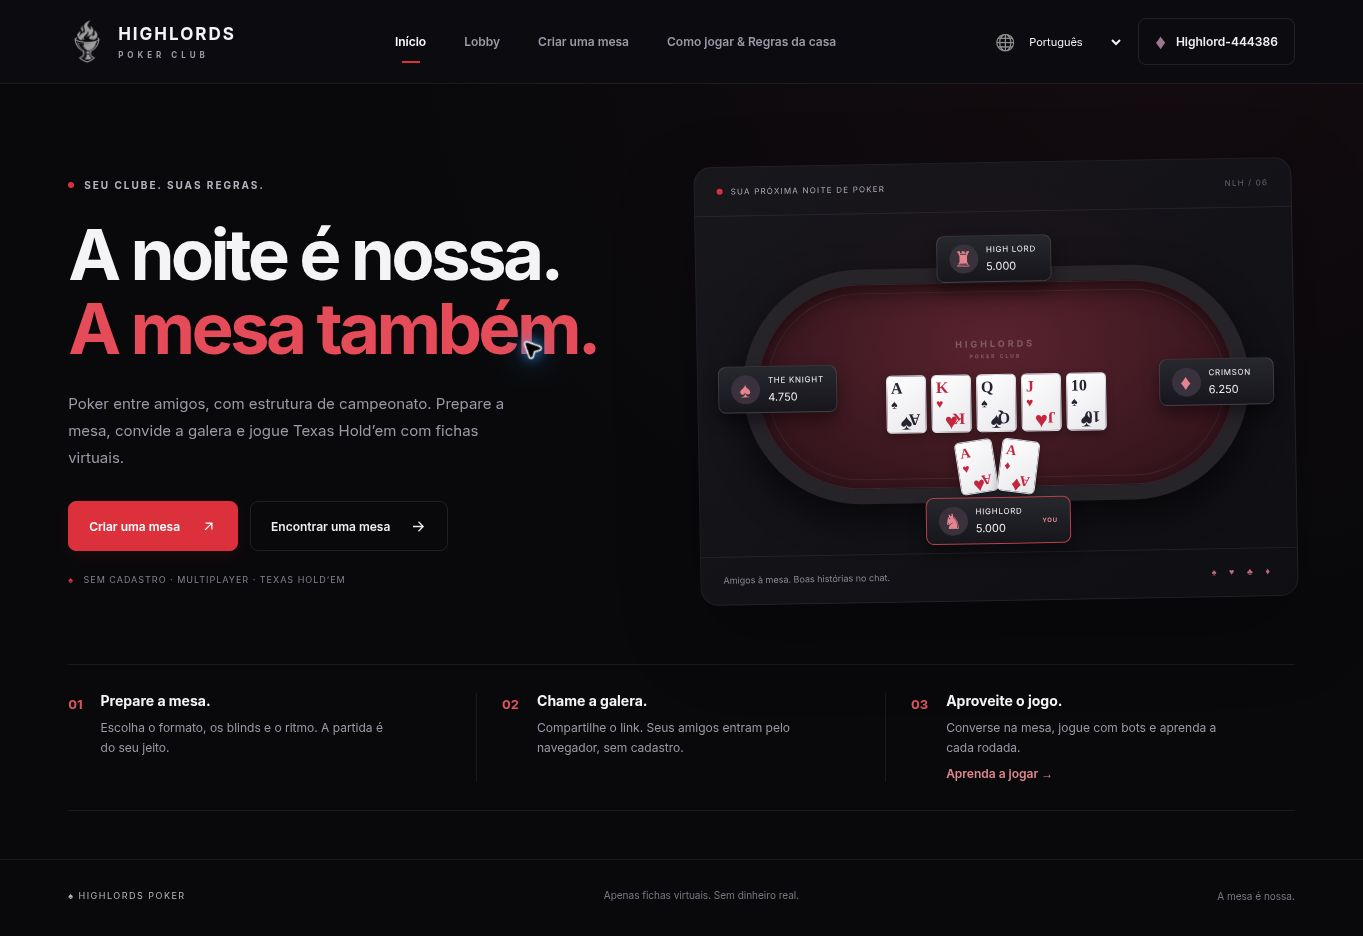
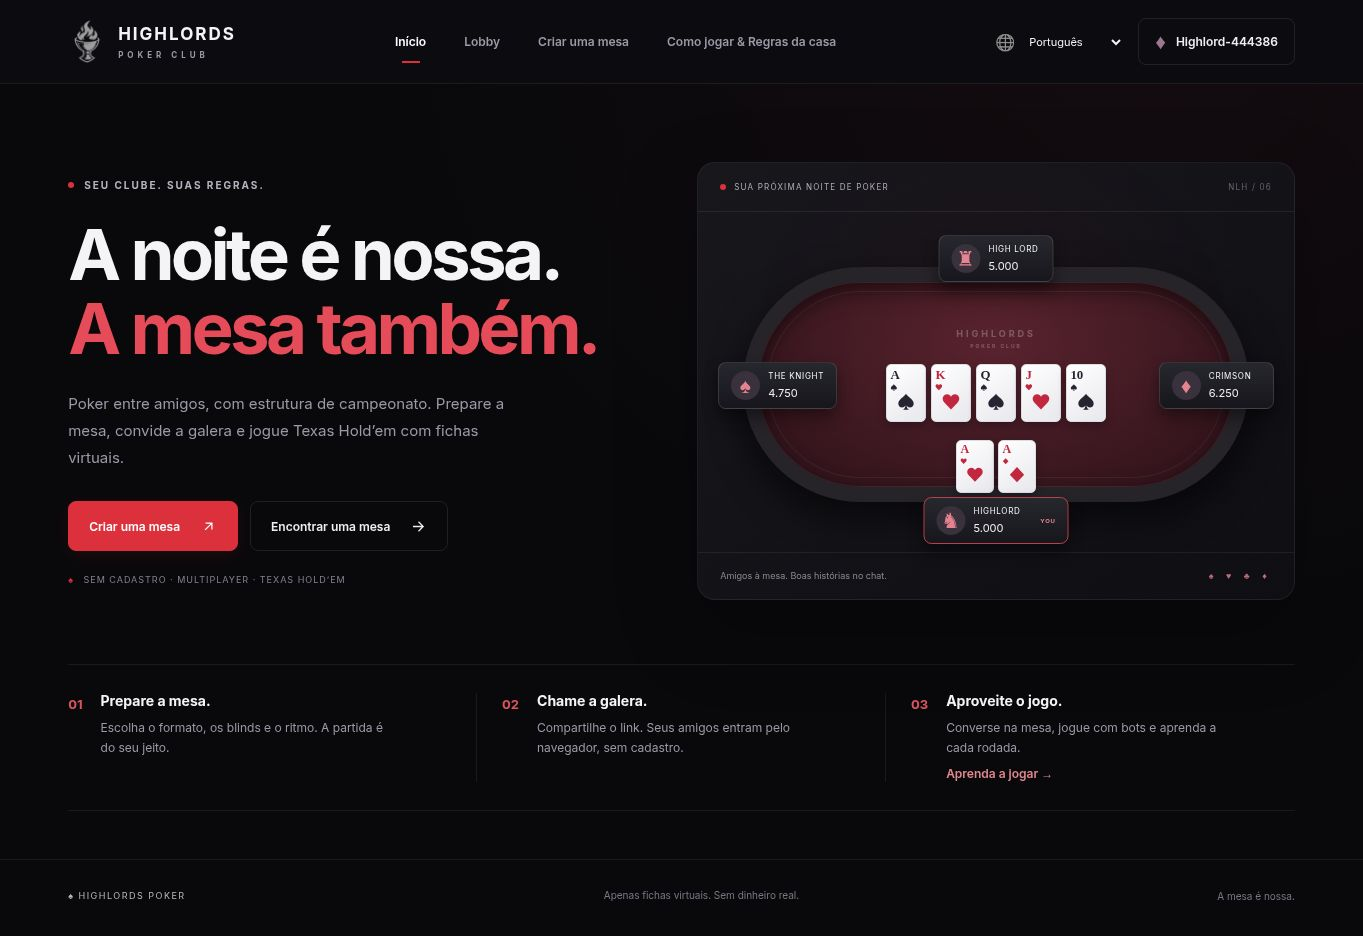
Fix tilted home artwork and replace overlapping card faces with SVG

diff --git a/apps/web/src/interface.css b/apps/web/src/interface.css
@@ -413,7 +413,7 @@ small,
     radial-gradient(ellipse at 50% 40%, #41151e30, transparent 65%),
     linear-gradient(145deg, #17171c, #0e0e13);
   box-shadow: 0 30px 80px #0004;
-  transform: rotate(-1deg);
+  transform: none;
 }
 .art-topline {
   display: flex;
@@ -449,6 +449,7 @@ small,
   align-items: center;
   justify-content: center;
   gap: 15px;
+  padding-bottom: 18px;
 }
 .mini-table:after {
   content: '';
@@ -481,14 +482,8 @@ small,
   height: 58px;
   padding: 4px;
 }
-.hero-hand .playing-card b {
-  font-size: 16px;
-}
 .hero-hand .playing-card > span {
   font-size: 22px;
-}
-.hero-hand .card-corner {
-  font-size: 10px;
 }
 .art-player {
   position: absolute;
@@ -558,19 +553,13 @@ small,
   width: 38px;
   height: 53px;
   padding: 4px;
-  transform: rotate(-8deg);
+  transform: none;
 }
 .art-own .playing-card:last-child {
-  transform: rotate(8deg);
-}
-.art-own .playing-card b {
-  font-size: 14px;
+  transform: none;
 }
 .art-own .playing-card > span {
   font-size: 20px;
-}
-.art-own .card-corner {
-  font-size: 8px;
 }
 .tiny-chip {
   width: 14px;
@@ -1701,29 +1690,18 @@ footer > span:first-child {
   display: flex;
   flex-direction: column;
 }
-.playing-card b {
-  font:
-    bold 20px/1 Georgia,
-    serif;
-}
-.playing-card b i {
-  display: block;
-  font-size: 12px;
-  font-style: normal;
-  margin-top: 2px;
-}
 .playing-card > span {
   align-self: center;
   font:
     27px/1.1 Georgia,
     serif;
 }
-.playing-card .card-corner {
+.card-face {
   position: absolute;
-  bottom: 5px;
-  right: 5px;
-  transform: rotate(180deg);
-  font-size: 12px;
+  inset: 0;
+  display: block;
+  width: 100%;
+  height: 100%;
 }
 .playing-card.red-card {
   color: #c32740;
@@ -1964,19 +1942,8 @@ footer > span:first-child {
 .hole-cards .playing-card:last-child {
   transform: rotate(8deg);
 }
-.hole-cards .playing-card b {
-  font-size: 12px;
-}
-.hole-cards .playing-card b i {
-  font-size: 8px;
-}
 .hole-cards .playing-card > span {
   font-size: 15px;
-}
-.hole-cards .card-corner {
-  font-size: 7px;
-  bottom: 2px;
-  right: 2px;
 }
 .own-hand {
   position: absolute;
@@ -2770,14 +2737,8 @@ footer > span:first-child {
   height: 58px;
   padding: 4px;
 }
-.rank-card .playing-card b {
-  font-size: 16px;
-}
 .rank-card .playing-card > span {
   font-size: 22px;
-}
-.rank-card .card-corner {
-  font-size: 9px;
 }
 .rank-card h2 {
   font-size: 17px;
@@ -2994,9 +2955,6 @@ footer > span:first-child {
     width: 34px;
     height: 50px;
   }
-  .hero-hand .playing-card b {
-    font-size: 13px;
-  }
   .hero-hand .playing-card > span {
     font-size: 20px;
   }
@@ -3146,19 +3104,8 @@ footer > span:first-child {
     height: 43px;
     padding: 3px;
   }
-  .hero-hand .playing-card b {
-    font-size: 11px;
-  }
-  .hero-hand .playing-card b i {
-    font-size: 8px;
-  }
   .hero-hand .playing-card > span {
     font-size: 17px;
-  }
-  .hero-hand .card-corner {
-    font-size: 7px;
-    bottom: 3px;
-    right: 3px;
   }
   .mini-mark {
     font-size: 7px;
@@ -3245,14 +3192,8 @@ footer > span:first-child {
     height: 65px;
     padding: 5px;
   }
-  .playing-card b {
-    font-size: 17px;
-  }
   .playing-card > span {
     font-size: 23px;
-  }
-  .playing-card .card-corner {
-    font-size: 10px;
   }
   .community {
     gap: 5px;
@@ -3428,9 +3369,6 @@ footer > span:first-child {
   .hero-hand .playing-card {
     width: 34px;
     height: 49px;
-  }
-  .hero-hand .playing-card b {
-    font-size: 13px;
   }
   .hero-hand .playing-card > span {
     font-size: 19px;
@@ -3827,19 +3765,8 @@ footer > span:first-child {
     height: 54px;
     padding: 4px;
   }
-  .community .playing-card b {
-    font-size: 15px;
-  }
-  .community .playing-card b i {
-    font-size: 9px;
-  }
   .community .playing-card > span {
     font-size: 20px;
-  }
-  .community .card-corner {
-    font-size: 9px;
-    bottom: 4px;
-    right: 4px;
   }
   .pot {
     margin-bottom: 14px;
@@ -3860,9 +3787,6 @@ footer > span:first-child {
     width: 43px;
     height: 62px;
     padding: 4px;
-  }
-  .own-hand .playing-card b {
-    font-size: 18px;
   }
   .own-hand .playing-card > span {
     font-size: 25px;
@@ -3927,17 +3851,8 @@ footer > span:first-child {
     width: 23px;
     height: 31px;
   }
-  .hole-cards .playing-card b {
-    font-size: 10px;
-  }
-  .hole-cards .playing-card b i {
-    font-size: 6px;
-  }
   .hole-cards .playing-card > span {
     font-size: 12px;
-  }
-  .hole-cards .card-corner {
-    font-size: 6px;
   }
   .dealer {
     width: 16px;

diff --git a/apps/web/src/card.tsx b/apps/web/src/card.tsx
@@ -1,4 +1,25 @@
 import React from 'react';
+
+const suits: Record<string, string> = { s: '♠', h: '♥', d: '♦', c: '♣' };
+
+function Suit({ suit }: { suit: string }) {
+  if (suit === 'c')
+    return (
+      <g>
+        <circle cx="50" cy="27" r="23" />
+        <circle cx="27" cy="59" r="23" />
+        <circle cx="73" cy="59" r="23" />
+        <path d="M44 57h12v20q0 13 14 20H30q14-7 14-20Z" />
+      </g>
+    );
+  const paths: Record<string, string> = {
+    s: 'M50 4C39 22 6 37 6 60c0 24 29 30 41 11-2 12-6 20-14 25h34c-8-5-12-13-14-25 12 19 41 13 41-11C94 37 61 22 50 4Z',
+    h: 'M50 94 13 56C-8 33 6 7 28 7c10 0 18 6 22 15C54 13 62 7 72 7c22 0 36 26 15 49Z',
+    d: 'M50 3 94 50 50 97 6 50Z',
+  };
+  return <path d={paths[suit]} />;
+}
+
 export function Card({
   card,
   hidden = false,
@@ -8,7 +29,6 @@ export function Card({
   hidden?: boolean;
   highlighted?: boolean;
 }) {
-  const suits: Record<string, string> = { s: '♠', h: '♥', d: '♦', c: '♣' };
   const rank = card?.[0] === 'T' ? '10' : card?.[0];
   return (
     <div
@@ -18,14 +38,24 @@ export function Card({
       {hidden ? (
         <span>♠</span>
       ) : card ? (
-        <>
-          <b>
+        <svg className="card-face" viewBox="0 0 100 144" aria-hidden="true" focusable="false">
+          <text
+            x="9"
+            y="34"
+            fontFamily="Georgia, serif"
+            fontSize="34"
+            fontWeight="700"
+            fill="currentColor"
+          >
             {rank}
-            <i>{suits[card[1]]}</i>
-          </b>
-          <span>{suits[card[1]]}</span>
-          <b className="card-corner">{rank}</b>
-        </>
+          </text>
+          <g fill="currentColor" transform="translate(9 48) scale(.18)">
+            <Suit suit={card[1]} />
+          </g>
+          <g fill="currentColor" transform="translate(27 72) scale(.46)">
+            <Suit suit={card[1]} />
+          </g>
+        </svg>
       ) : (
         <span className="empty-suit">♠</span>
       )}

diff --git a/tests/e2e/club.spec.ts b/tests/e2e/club.spec.ts
@@ -624,7 +624,26 @@ test('home illustration and cards fit every supported width without overlapping 
       expect(await page.evaluate(() => document.documentElement.scrollWidth <= innerWidth)).toBe(
         true,
       );
+      await expect(page.locator('.club-art')).toHaveCSS('transform', 'none');
+      for (const card of await page.locator('.art-own .playing-card').all())
+        await expect(card).toHaveCSS('transform', 'none');
+      const faces = await page.locator('.club-art .card-face').evaluateAll((elements) =>
+        elements.map((face) => {
+          const parts = [...face.children].map((part) => {
+            const box = part.getBoundingClientRect();
+            return { top: box.top, bottom: box.bottom };
+          });
+          return {
+            rankClear: parts[0].bottom <= parts[1].top,
+            suitClear: parts[1].bottom <= parts[2].top,
+          };
+        }),
+      );
+      expect(faces).toHaveLength(7);
+      expect(faces.every((face) => face.rankClear && face.suitClear)).toBe(true);
       const hand = await page.locator('.hero-hand').boundingBox();
+      const ownCards = await page.locator('.art-own').boundingBox();
+      expect(hand!.y + hand!.height + 4).toBeLessThanOrEqual(ownCards!.y);
       for (const selector of ['.art-player-left', '.art-player-right']) {
         const player = await page.locator(selector).boundingBox();
         const overlapX =
